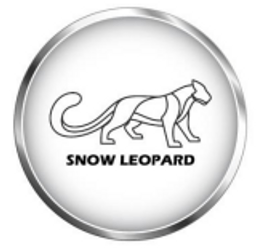
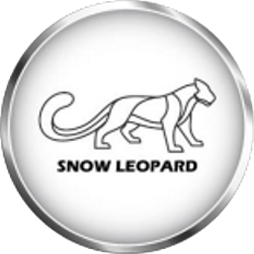
commit teams index page changes

diff --git a/index.html b/index.html
@@ -1,7 +1,7 @@
 <!doctype html>
 <html>
 
-<!-- Mirrored from abdulrafay789.github.io/EAGL/eagl.ae/index.html by HTTrack Website Copier/3.x [XR&CO'2014], Sun, 17 Oct 2021 23:14:57 GMT -->
+<!-- Mirrored from abdulrafay789.github.io/EAGL/eagl.ae/index.html by HTTrack Website Copier/3.x [XR&CO'2014], Thu, 21 Oct 2021 11:10:18 GMT -->
 <!-- Added by HTTrack --><meta http-equiv="content-type" content="text/html;charset=utf-8" /><!-- /Added by HTTrack -->
 <meta http-equiv="content-type" content="text/html;charset=UTF-8" />
 
@@ -35,7 +35,7 @@
         <nav class="navbar navbar-expand-xl navbar-dark">
             <!-- Brand -->
             <a class="navbar-brand" href="index.html">
-                <img class="logo" src="assets/images/logo.svg" width = "120" height = "70" alt="Logo">
+                <img class="logo" src="assets/images/logo.svg" height="66" alt="Logo">
             </a>
 
             <!-- Toggler/collapsibe Button -->
@@ -75,6 +75,7 @@
                         <div class="dropdown-menu">
                             <a class="dropdown-item" href="sponsors8b4a8b4a.html?sm=sponsorshipopportunities">Sponsorship Opportunities</a>
                             <a class="dropdown-item" href="sponsors25382538.html?sm=benefits">Benefits</a>
+                            <a class="dropdown-item" href="sponsors2538-1b793.html?sm=sponsors">Sponsors</a>
                         </div>
                     </li>
                     <li class="nav-item dropdown ">
@@ -90,7 +91,7 @@
                         MEDIA                    </a>
                         <div class="dropdown-menu">
                             <a class="dropdown-item" href="media85d285d2.html?sm=printmedia">Print Media</a>
-                            <a class="dropdown-item" href="media988d988d.html?sm=socialmedia">Magazines</a>
+                            <!-- <a class="dropdown-item" href="media988d.html?sm=socialmedia">Magazines</a> -->
                             <a class="dropdown-item" href="media68246824.html?sm=tvcoverage">TV Coverage</a>
                             <a class="dropdown-item" href="media4b7c4b7c.html?sm=livebroadcast">LIVE Broadcast</a>
                         </div>
@@ -132,9 +133,9 @@
                     </li>
                     <li class="nav-item social-item">
                         <p>
-                          <!--  <a href="https://www.facebook.com/EAGL-101224841834014/" target="_blank"><img class="socialIcon" src="assets/images/face.png" alt="facebook" /></a>-->
+                            <a href="https://www.facebook.com/EAGL-101224841834014/" target="_blank"><img class="socialIcon" src="assets/images/face.png" alt="facebook" /></a>
                             <a href="https://www.instagram.com/torukmaktoleague?r=nametag" target="_blank"><img class="socialIcon" src="assets/images/insta.png" alt="instagram" /></a>
-                            <!-- <a href="https://www.youtube.com/c/EAGLUAE/" target="_blank"><img class="socialIcon" src="assets/images/yt.png" alt="youtube" /></a>-->
+                            <a href="https://www.youtube.com/c/EAGLUAE/" target="_blank"><img class="socialIcon" src="assets/images/yt.png" alt="youtube" /></a>
                             <a href="https://twitter.com/TorukOfficial?s=08" target="_blank"><img class="socialIcon" src="assets/images/tw.png" alt="twitter" /></a>
                             <a href="https://www.linkedin.com/in/toruk-makto-154402221" target="_blank"><img class="socialIcon" src="assets/images/Li-header.svg" alt="linkedin" /></a>
                         </p>
@@ -147,13 +148,11 @@
         <div class="announcement">
             <div class="container-fluid">
                 <p>
-                    <marquee behavior="scroll" scrollamount="5" direction="left"><img class="calendar" src="assets/images/DAB_calendar.svg" alt="calendar" /> Watch Toruk Makato Mini series Highlights <a href="https://youtu.be/vMfRdA3GzBc" target="_blank">Click here</a> website under construction<br> </marquee>
-
-                    
+                    <marquee behavior="scroll" scrollamount="5" direction="left"><img class="calendar" src="assets/images/DAB_calendar.svg" alt="calendar" /> Watch Toruk Makato Mini series Highlights <a href="https://youtu.be/vMfRdA3GzBc" target="_blank">Click here</a><br> </marquee>
                     <span class="social">Follow us
-                    <!-- <a href="https://www.facebook.com/EAGL-101224841834014/" target="_blank"><img class="socialIcon" src="assets/images/face.png" alt="facebook" /></a>-->
+                    <a href="https://www.facebook.com/EAGL-101224841834014/" target="_blank"><img class="socialIcon" src="assets/images/face.png" alt="facebook" /></a>
                     <a href="https://www.instagram.com/torukmaktoleague?r=nametag" target="_blank"><img class="socialIcon" src="assets/images/insta.png" alt="instagram" /></a>
-                    <!-- <a href="https://www.youtube.com/c/EAGLUAE/" target="_blank"><img class="socialIcon" src="assets/images/yt.png" alt="youtube" /></a>-->
+                    <a href="https://www.youtube.com/c/EAGLUAE/" target="_blank"><img class="socialIcon" src="assets/images/yt.png" alt="youtube" /></a>
                     <a href="https://twitter.com/TorukOfficial?s=08" target="_blank"><img class="socialIcon" src="assets/images/tw.png" alt="twitter" /></a>
                     <a href="https://www.linkedin.com/in/toruk-makto-154402221" target="_blank"><img class="socialIcon" src="assets/images/Li-header.svg" alt="linkedin" /></a>
                   </span></p>
@@ -170,20 +169,18 @@
                 <!-- The slideshow -->
 
                 <div class="carousel-inner">
-                    <div class="carousel-item active" >
+                    <div class="carousel-item active">
                         <div class="content">
-                            <img class="thumbnail img-fluid" src="assets/images/Banner.jpg" alt="TORUK MAKATO GOLF LEAGUE" id="thumbnail1" />
-                            <div class="overlayText"  src="assets/images/Banner.jpg">
-                               
-                                <h3 class="heading" > TORUK MAKATO GOLF LEAGUE</h3>
-                                <button class="read" onclick="window.location.href='#'" type="button">Know More</button>
+                            <img class="thumbnail img-fluid" src="assets/images/Banner.jpg" alt="TORUK MAKATO HAS LANDED" id="thumbnail1" />
+                            <div class="overlayText">
+                                <h3 class="heading"> TORUK MAKATO HAS LANDED</h3>
+                                <button class="read" onclick="window.location.href='unveiled/index.html'" type="button">Know More</button>
                             </div>
-                           
-                            <div class="overlayPlay" >
-                                <a class="openModal" onclick="return playVideo(1)" id="modal_1" data-toggle="modal" href="#videoView1"><img class="play" style="opacity: 0; margin-left:700px; margin-bottom: -100px; "  src="assets/images/play.png" alt="play" /></a>
-                        </div>
+                            <div class="overlayPlay">
+                                <a class="openModal" onclick="return playVideo(1)" id="modal_1" data-toggle="modal" href="#videoView1"><img class="play" src="assets/images/play.png" alt="play" /></a>
+                            </div>
                             <div class="overlayImage">
-                               
+                                <p>SANCTIONED BY</p>
                                 <img class="golf" style="opacity: 0;" src="assets/images/golf.png" alt="golf" />
                             </div>
                         </div>
@@ -203,7 +200,7 @@
                     <div class="modal-body">
                         <div class="content">
                             <video class="w-100" controls id="myvideo1">
-                      <source src="https://eagl.ae/public/sliders/eagl.mp4" type="video/mp4">
+                      <source src="#" type="video/mp4">
                       Your browser does not support the video tag.
                     </video>
                             <!-- <video class="w-100" controls id="myvideo1">
@@ -220,7 +217,7 @@
         <!-- about  -->
         <div class="about">
             <h1 class="heading">WHAT IS TORUK MAKATO?</h1>
-            <p class="description">Welcome to a new age of Golf in Franchise League format. Get ready to witness eight teams brimming with talent fiercely competing for top honours at the new Toruk Makto. A League created by Abrar Asif, the Pakistan based Chairman of Giant
+            <p class="description">Welcome to a new age of Golf in Franchise League format. Get ready to witness eight teams brimming with talent fiercely competing for top honours at the new Toruk Makto. A League curated by Abrar Asif, the Pakistan based Chairman of Giant
                 Group of Companies and an Amateur Golfer.</p>
             <p class="description">Toruk Makto is a path-breaking initiative by the organizers to bring a new dimension to the lovely sport. Add new aggression. Provide a great platform for amateurs. Place the Pakistan at the centre of the action. And bring to life a play format
                 the world has never seen before. The League presents a great opportunity for Team owners, Sponsors, Partners and Players to network and provide an impetus to brand building, marketing, customer development, entertainment and public relations.</p>
@@ -248,29 +245,29 @@
                 <div class="tab-pane active" id="news">
                     <div class="row">
                         <div class="col-sm-4 content">
-                            <img class="w-50" src="public/gallery/thumbnail/playing_format (1).jpeg" alt="TORUK MAKATO announces its forthcoming event">
+                            <img class="w-100 d-none" src="public/gallery/thumbnail/1632396762_EDM-website-01-min.jpg" alt="TORUK MAKATO announces its forthcoming event">
                             <h4>TORUK MAKATO announces its forthcoming event</h4>
                             <p class="description">TORUK MAKATO announces its forthcoming event "Corporate Invitational"</p>
                             <a class="text-decoration-none" href="latest-news/mini-series2.html">
-                              <!--  <p class="more">more..</p>-->
+                                <p class="more">more..</p>
                             </a>
 
                         </div>
                         <div class="col-sm-4 content">
-                            <img class="w-100" src="public/gallery/thumbnail/playing_format (3).jpeg" alt="Shiv Kapur heaps praise on Pakistan Amateur Golf League's Mini Series">
+                            <img class="w-100 d-none" src="public/gallery/thumbnail/1624955653_AR-210629847%20(1).jpg" alt="Shiv Kapur heaps praise on Pakistan Amateur Golf League's Mini Series">
                             <h4>Shiv Kapur heaps praise on Pakistan Amateur Golf League's Mini Series</h4>
                             <p class="description">Mena Golfers won the Pakistan Amateur Golf League (TORUK MAKATO) Mini-Series event at Jumeirah Golf Estates</p>
                             <a class="text-decoration-none" href="latest-news/eaglminiseries.html">
-                                <!--  <p class="more">more..</p>-->
+                                <p class="more">more..</p>
                             </a>
 
                         </div>
                         <div class="col-sm-4 ">
-                            <img class="w-100 d-none" src="public/gallery/thumbnail/1622019280_Emirates-Amateur-Golf-League--EAGL--Tournament-Director--Nick-Tarratt-with-Sripriyaa-Kumaria--League-Administrator--and-S" alt="TORUK MAKATO Mini-Series: A giant leap for corporate golf in PAKISTAN">
+                            <img class="w-100 d-none" src="public/gallery/thumbnail/1622019280_Emirates-Amateur-Golf-League--EAGL--Tournament-Director--Nick-Tarratt-with-Sripriyaa-Kumaria--League-Administrator--and" alt="TORUK MAKATO Mini-Series: A giant leap for corporate golf in PAKISTAN">
                             <h4>TORUK MAKATO Mini-Series: A giant leap for corporate golf in PAKISTAN</h4>
                             <p class="description">The format of the TORUK MAKATO Mini-Series is just eight teams each consisting of a playing captain and with three other players</p>
                             <a class="text-decoration-none" href="latest-news/mini-series.html">
-                                <!--  <p class="more">more..</p>-->
+                                <p class="more">more..</p>
                             </a>
 
                         </div>
@@ -290,7 +287,7 @@
                         </div>
                     </div>
                     <a class="text-decoration-none" href="gallery06fb06fb.html?sm=photos">
-                      <!--  <p class="more">more..</p>-->
+                        <p class="more">more..</p>
                     </a>
                 </div>
                 <div class="tab-pane fade" id="videos">
@@ -315,7 +312,7 @@
                         </div>
                     </div>
                     <a class="text-decoration-none" href="galleryf296f296.html?sm=videos">
-                     <!--  <p class="more">more..</p>-->
+                        <p class="more">more..</p>
                     </a>
                 </div>
             </div>
@@ -327,41 +324,35 @@
                 <div class="col-md-8 leftSide">
                     <h1 class="heading">Teams</h1>
                     <div class="row teams">
-                        
                         <div class="col-sm-3 col-6 mb-4">
-                            <a href="team/snow-leopards.html"><img src="public/teams/snow-leapards.png" alt="Team 2" /></a>
-                        </div>
-                        <div class="col-sm-3 col-6 mb-4">
-                            <a href="team/grey_wolf.html"><img src="public/teams/grey-wolf.png" alt="Team 4" /></a>
-                        </div>
-                        
-                        <div class="col-sm-3 col-6 mb-4">
-                            <a href="team/nocturnal.html"><img src="public/teams/team5.png" alt="Team 4" /></a>
+                            <a href="team/snow-leapards.html"><img class="bg-white" src="public/teams/snow-leapards.png" alt="Team 1" /></a>
                         </div>
                         <div class="col-sm-3 col-6 mb-4">
-                            <a href="team/viper.html"><img src="public/teams/viper.png" alt="Team 4" /></a>
+                            <a href="team/gray_wolf.html"><img class="bg-white" src="public/teams/gray_wolf.png" alt="Team 2" /></a>
                         </div>
                         <div class="col-sm-3 col-6 mb-4">
-                            <a href="team/markhors.html"><img src="public/teams/markhor.png" width = "200" height = "200" alt="Team 4" /></a>
+                            <a href="team/nocturnal-bats.html"><img class="bg-white" src="public/teams/nocturnal-bats.png" alt="Team 3" /></a>
                         </div>
-                        <div class="col-sm-3 col-6 mb-4" class="imagesize">
-                            <a href="team/karachilions.html"><img src="public/teams/Capture.png"  alt="Team 4" /></a>
+                        <div class="col-sm-3 col-6 mb-4">
+                            <a href="team/markhor.html"><img class="bg-white" src="public/teams/markhor.png" alt="Team 4" /></a>
                         </div>
-                        
                     </div>
-                  <div class="row teams">
+                    <div class="row teams">
                         <div class="col-sm-3 col-6 mb-4">
-                            <a href="team/asian_jumbos.html"></a>
+                            <a href="team/viper.html"><img class="bg-white" src="public/teams/viper.png" alt="Team 5" /></a>
                         </div>
                         <div class="col-sm-3 col-6 mb-4">
-                            <a href="team/korean_chois.html"></a>
+                            <a href="team/karachi-lions.html"><img class="bg-white" src="public/teams/karachi-lions.jpg" alt="Team 5" /></a>
+                        </div>
+                        <!-- <div class="col-sm-3 col-6 mb-4">
+                            <a href="team/karachi-lions.html"><img src="public/teams/1614160847_korean.png" alt="Team 6" /></a>
                         </div>
                         <div class="col-sm-3 col-6 mb-4">
-                            <a href="team/emirates_players.html"></a>
+                            <a href="team/emirates_players.html"><img src="public/teams/1614160865_emirates.png" alt="Team 7" /></a>
                         </div>
                         <div class="col-sm-3 col-6 mb-4">
-                            <a href="team/european_seves.html"></a>
-                        </div> 
+                            <a href="team/european_seves.html"><img src="public/teams/1614160881_european.png" alt="Team 8" /></a>
+                        </div> -->
                     </div>
                     <div class="teamOwners">
                         <h1 class="title">A FANTASTIC PROPOSITION FOR TEAM OWNERS</h1>
@@ -600,22 +591,22 @@
                         </div>
                     </div>
                     <div class="bannerSection">
-                        <a href="#" target="_blank" style="text-decoration:none;">
+                        <a href="public/banners/1615982534_Presentation%20for%20Team%20Owners.pdf" target="_blank" style="text-decoration:none;">
                             <div class="banner py-0 px-3 mb-3">
                                 <img src="public/banners/1615891335_presentation_for_team_owner.png" class="w-100" />
                             </div>
                         </a>
-                        <a href="#" target="_blank" style="text-decoration:none;">
+                        <a href="public/banners/1615981023_Sponsor.pdf" target="_blank" style="text-decoration:none;">
                             <div class="banner py-0 px-3 mb-3">
                                 <img src="public/banners/1615891358_presentation_for_title_sponsor.png" class="w-100" />
                             </div>
                         </a>
-                        <a href="#" target="_blank" style="text-decoration:none;">
+                        <a href="public/banners/1615981051_Players.pdf" target="_blank" style="text-decoration:none;">
                             <div class="banner py-0 px-3 mb-3">
                                 <img src="public/banners/1615891550_presentation_for_players.png" class="w-100" />
                             </div>
                         </a>
-                        <a href="#" target="_blank" style="text-decoration:none;display: none;">
+                        <a href="https://www.youtube.com/eagluae" target="_blank" style="text-decoration:none;display: none;">
                             <div class="banner py-0 px-3 mb-3">
                                 <img src="public/banners/1623330192_youtube.png" class="w-100" />
                             </div>
@@ -659,7 +650,7 @@
                     <div class="col-lg-2 col-md-4 col-sm-12 links">
                         <label class="head sec">QUICK LINKS</label>
                         <ul>
-                            <li><a href="#">TEAMS</a></li>
+                            <li><a href="teams/index.html">TEAMS</a></li>
                             <li><a href="sponsors/index.html">SPONSORS</a></li>
                             <li><a href="players/index.html">PLAYERS</a></li>
                             <li><a href="eagl_2021/index.html">TORUK MAKATO 2021</a></li>
@@ -687,9 +678,9 @@
                 <div class="row">
                     <div class="col-12 intro">
                         <p class="socialMedia">FOLLOW
-                             <!--<a href="https://www.facebook.com/EAGL-101224841834014/" target="_blank"><img class="social" src="assets/images/footer_Fb.svg" alt="facebook" /></a>-->
+                            <a href="https://www.facebook.com/EAGL-101224841834014/" target="_blank"><img class="social" src="assets/images/footer_Fb.svg" alt="facebook" /></a>
                             <a href="https://www.instagram.com/torukmaktoleague?r=nametag" target="_blank"><img class="social" src="assets/images/footer_insta.svg" alt="instagram" /></a>
-                            <!-- <a href="https://www.youtube.com/c/EAGLUAE/" target="_blank"><img class="social" src="assets/images/footer_yt.svg" alt="youtube" /></a>-->
+                            <a href="https://www.youtube.com/c/EAGLUAE/" target="_blank"><img class="social" src="assets/images/footer_yt.svg" alt="youtube" /></a>
                             <a href="https://twitter.com/TorukOfficial?s=08" target="_blank"><img class="social" src="assets/images/footer_Twtr.svg" alt="twitter" /></a>
                             <a href="https://www.linkedin.com/in/toruk-makto-154402221" target="_blank"><img class="social" src="assets/images/Li.svg" alt="linkedin" /></a>
                         </p>
@@ -1052,5 +1043,5 @@
 </body>
 
 
-<!-- Mirrored from abdulrafay789.github.io/EAGL/eagl.ae/index.html by HTTrack Website Copier/3.x [XR&CO'2014], Sun, 17 Oct 2021 23:15:43 GMT -->
+<!-- Mirrored from abdulrafay789.github.io/EAGL/eagl.ae/index.html by HTTrack Website Copier/3.x [XR&CO'2014], Thu, 21 Oct 2021 11:10:53 GMT -->
 </html>
